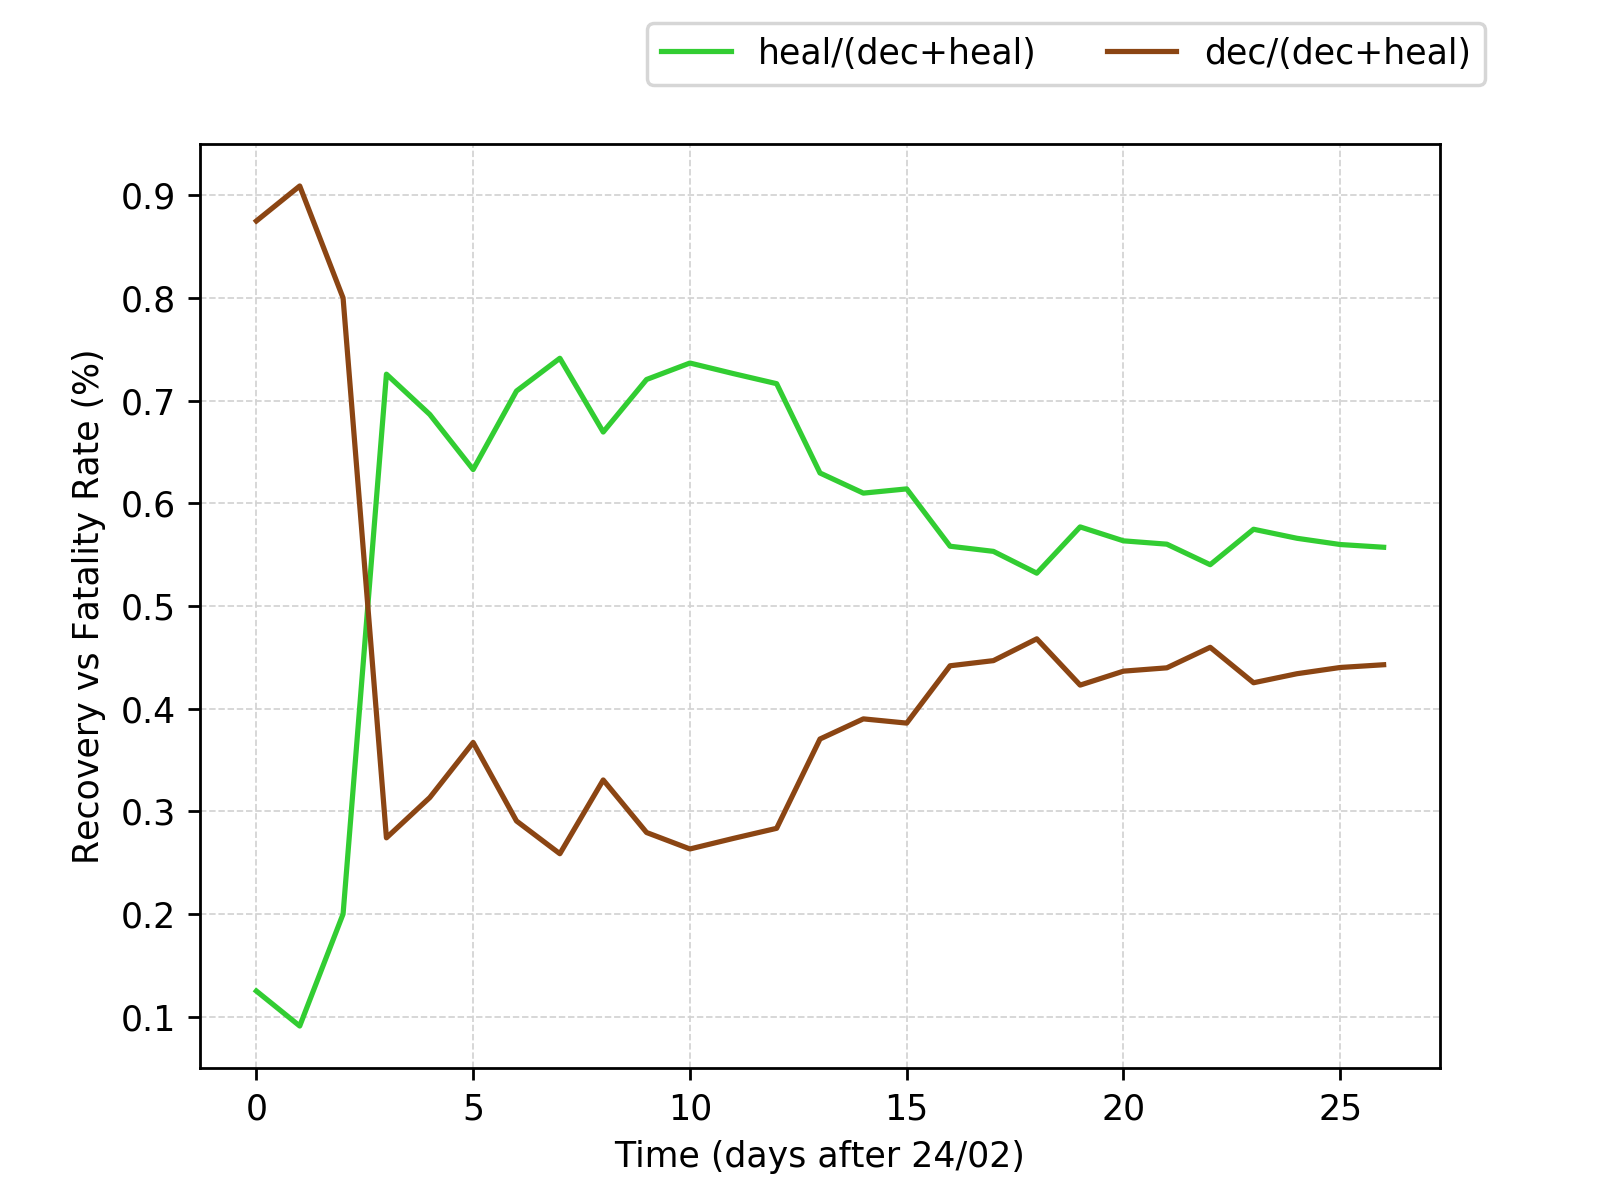
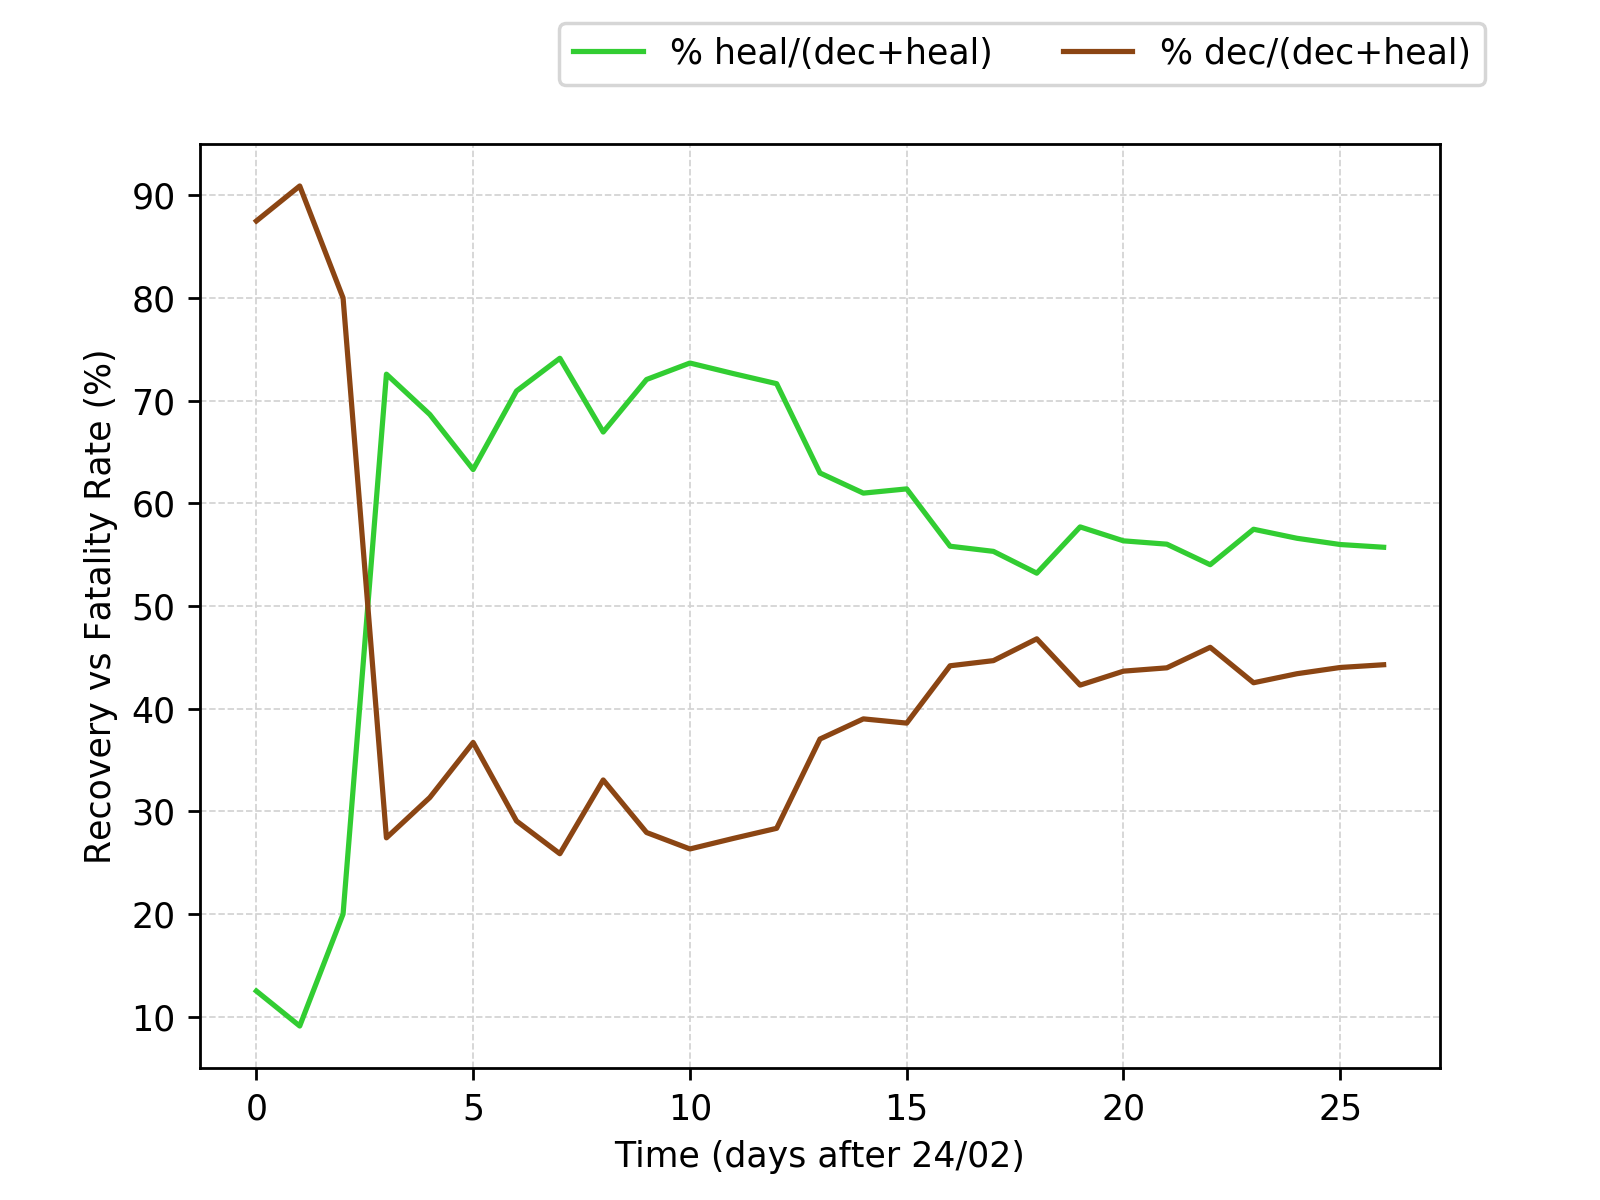
show recovery vs fatality rate in %

diff --git a/national.py b/national.py
@@ -212,9 +212,9 @@ plt.clf()
 recovery_rate = dataset['dimessi_guariti']/(dataset['deceduti'] + dataset['dimessi_guariti'])
 plt.xlabel('Time (days after 24/02)')
 plt.ylabel('Recovery vs Fatality Rate (%)')
-plt.plot(days, recovery_rate, c='limegreen', linestyle='-')
-plt.plot(days, fatality_rate_2, c='saddlebrown', linestyle='-')
-plt.legend(('heal/(dec+heal)','dec/(dec+heal)'),loc='upper right', bbox_to_anchor=(1.05, 1.15), ncol=2)
+plt.plot(days, recovery_rate*100, c='limegreen', linestyle='-')
+plt.plot(days, fatality_rate_2*100, c='saddlebrown', linestyle='-')
+plt.legend(('% heal/(dec+heal)','% dec/(dec+heal)'),loc='upper right', bbox_to_anchor=(1.05, 1.15), ncol=2)
 plt.grid(color='lightgray', linestyle='--', linewidth=0.5)
 plt.savefig('./curves/outcome-closed-cases.png', dpi = 250)
 plt.clf()
